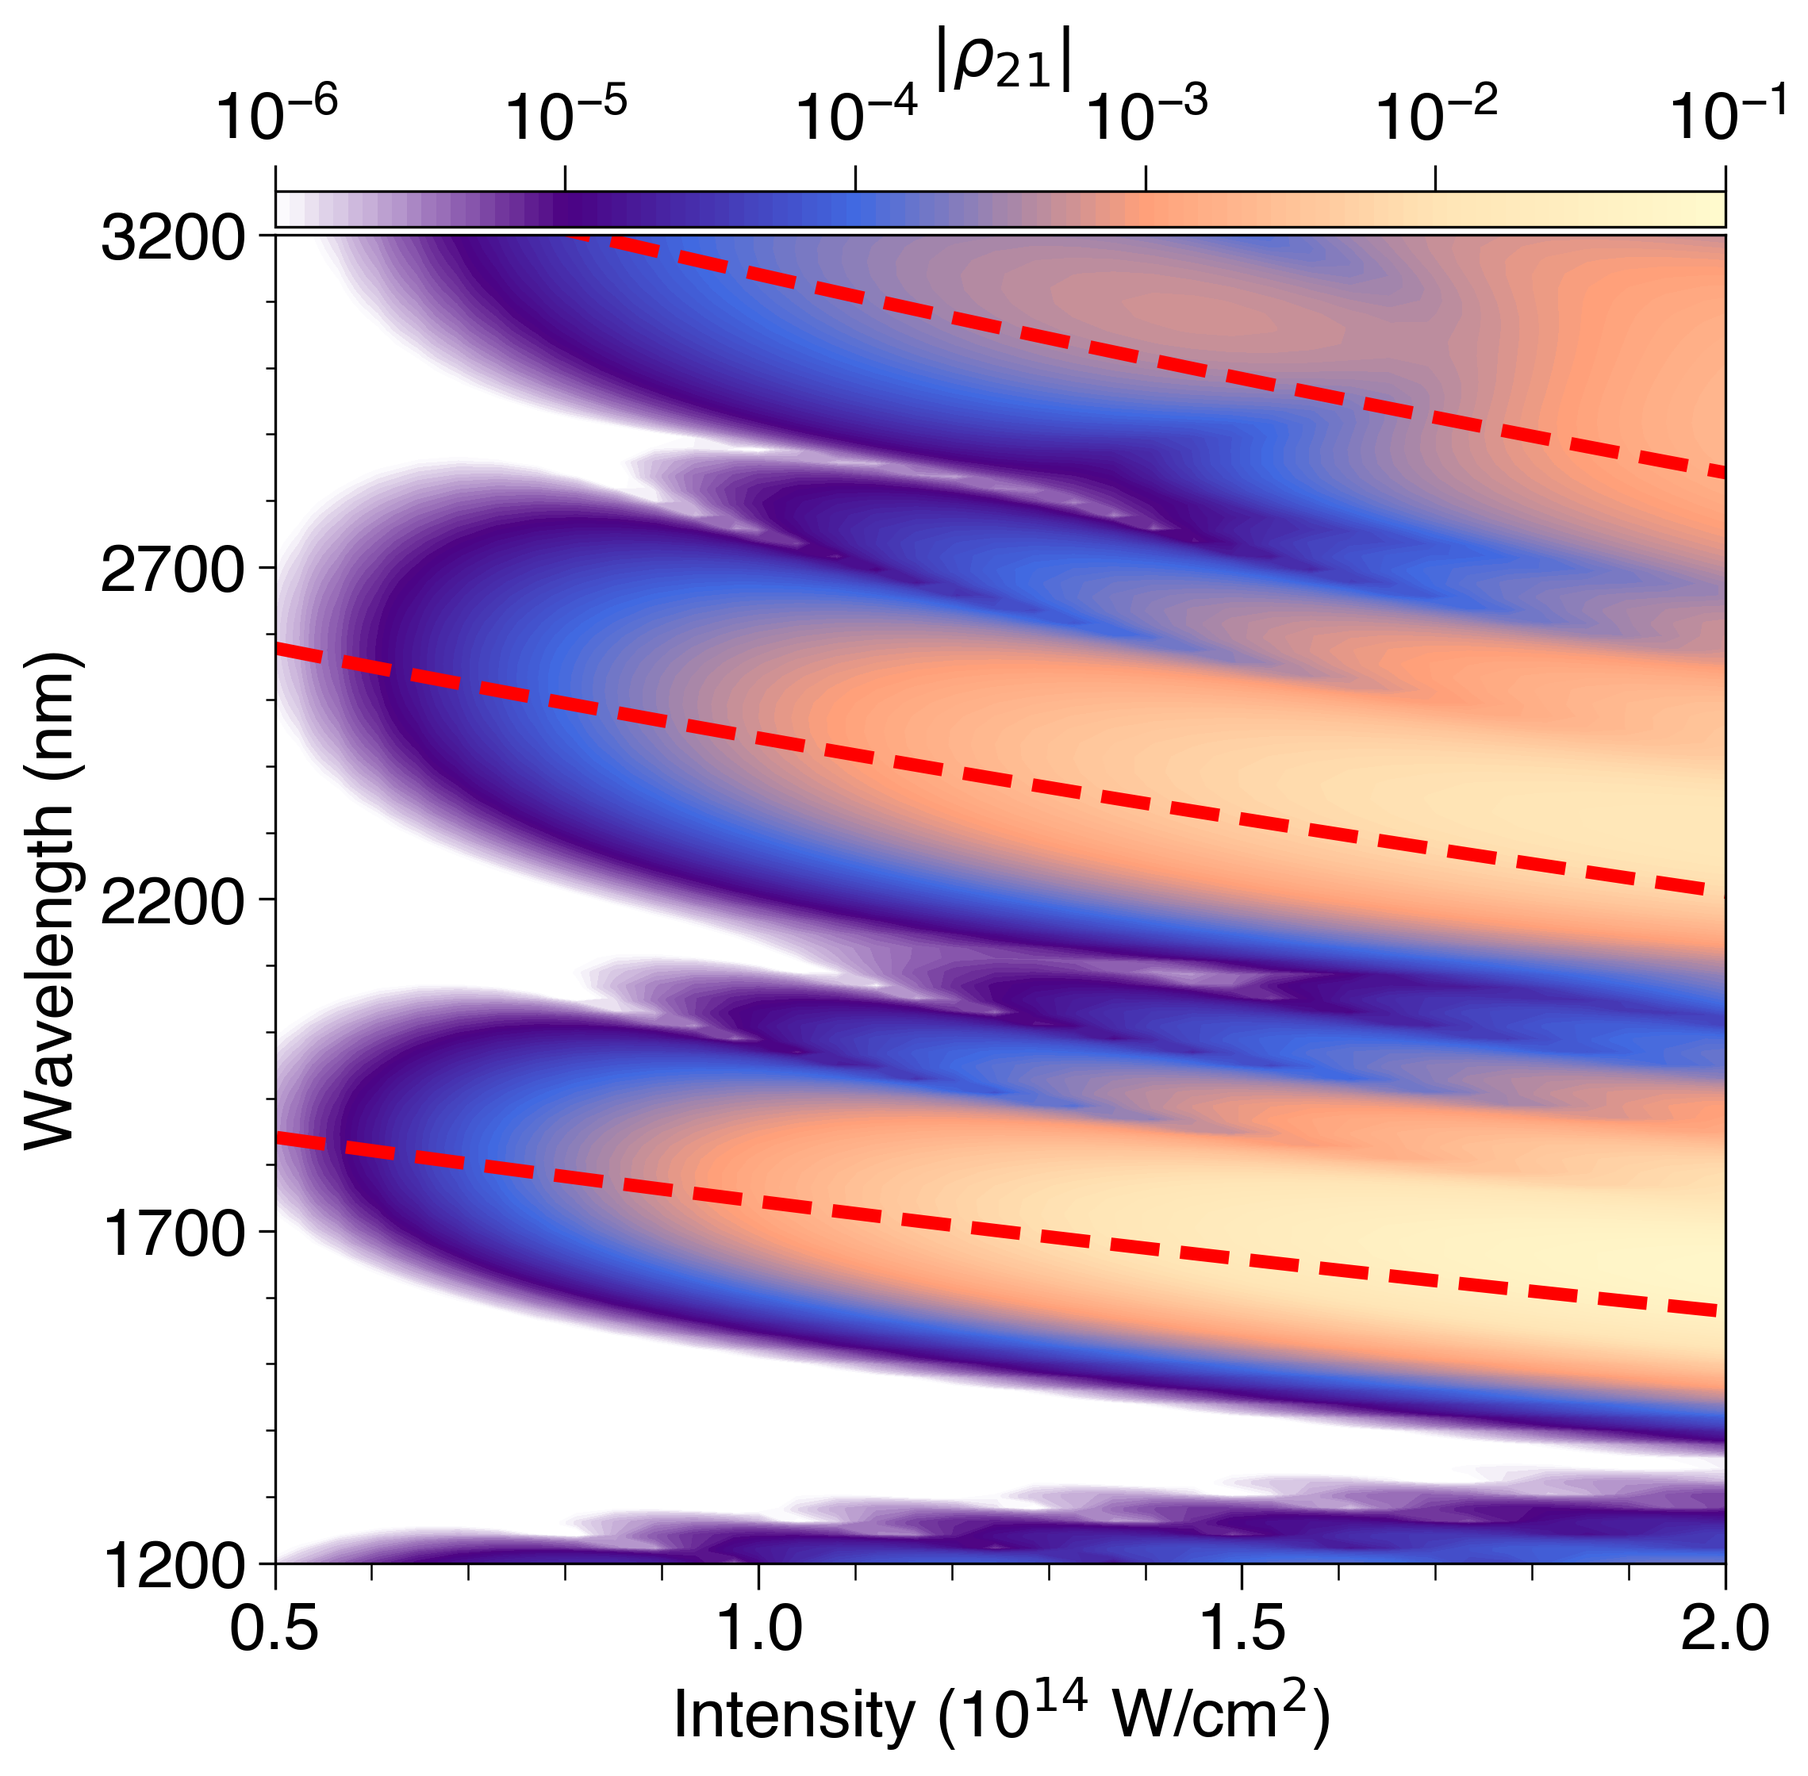
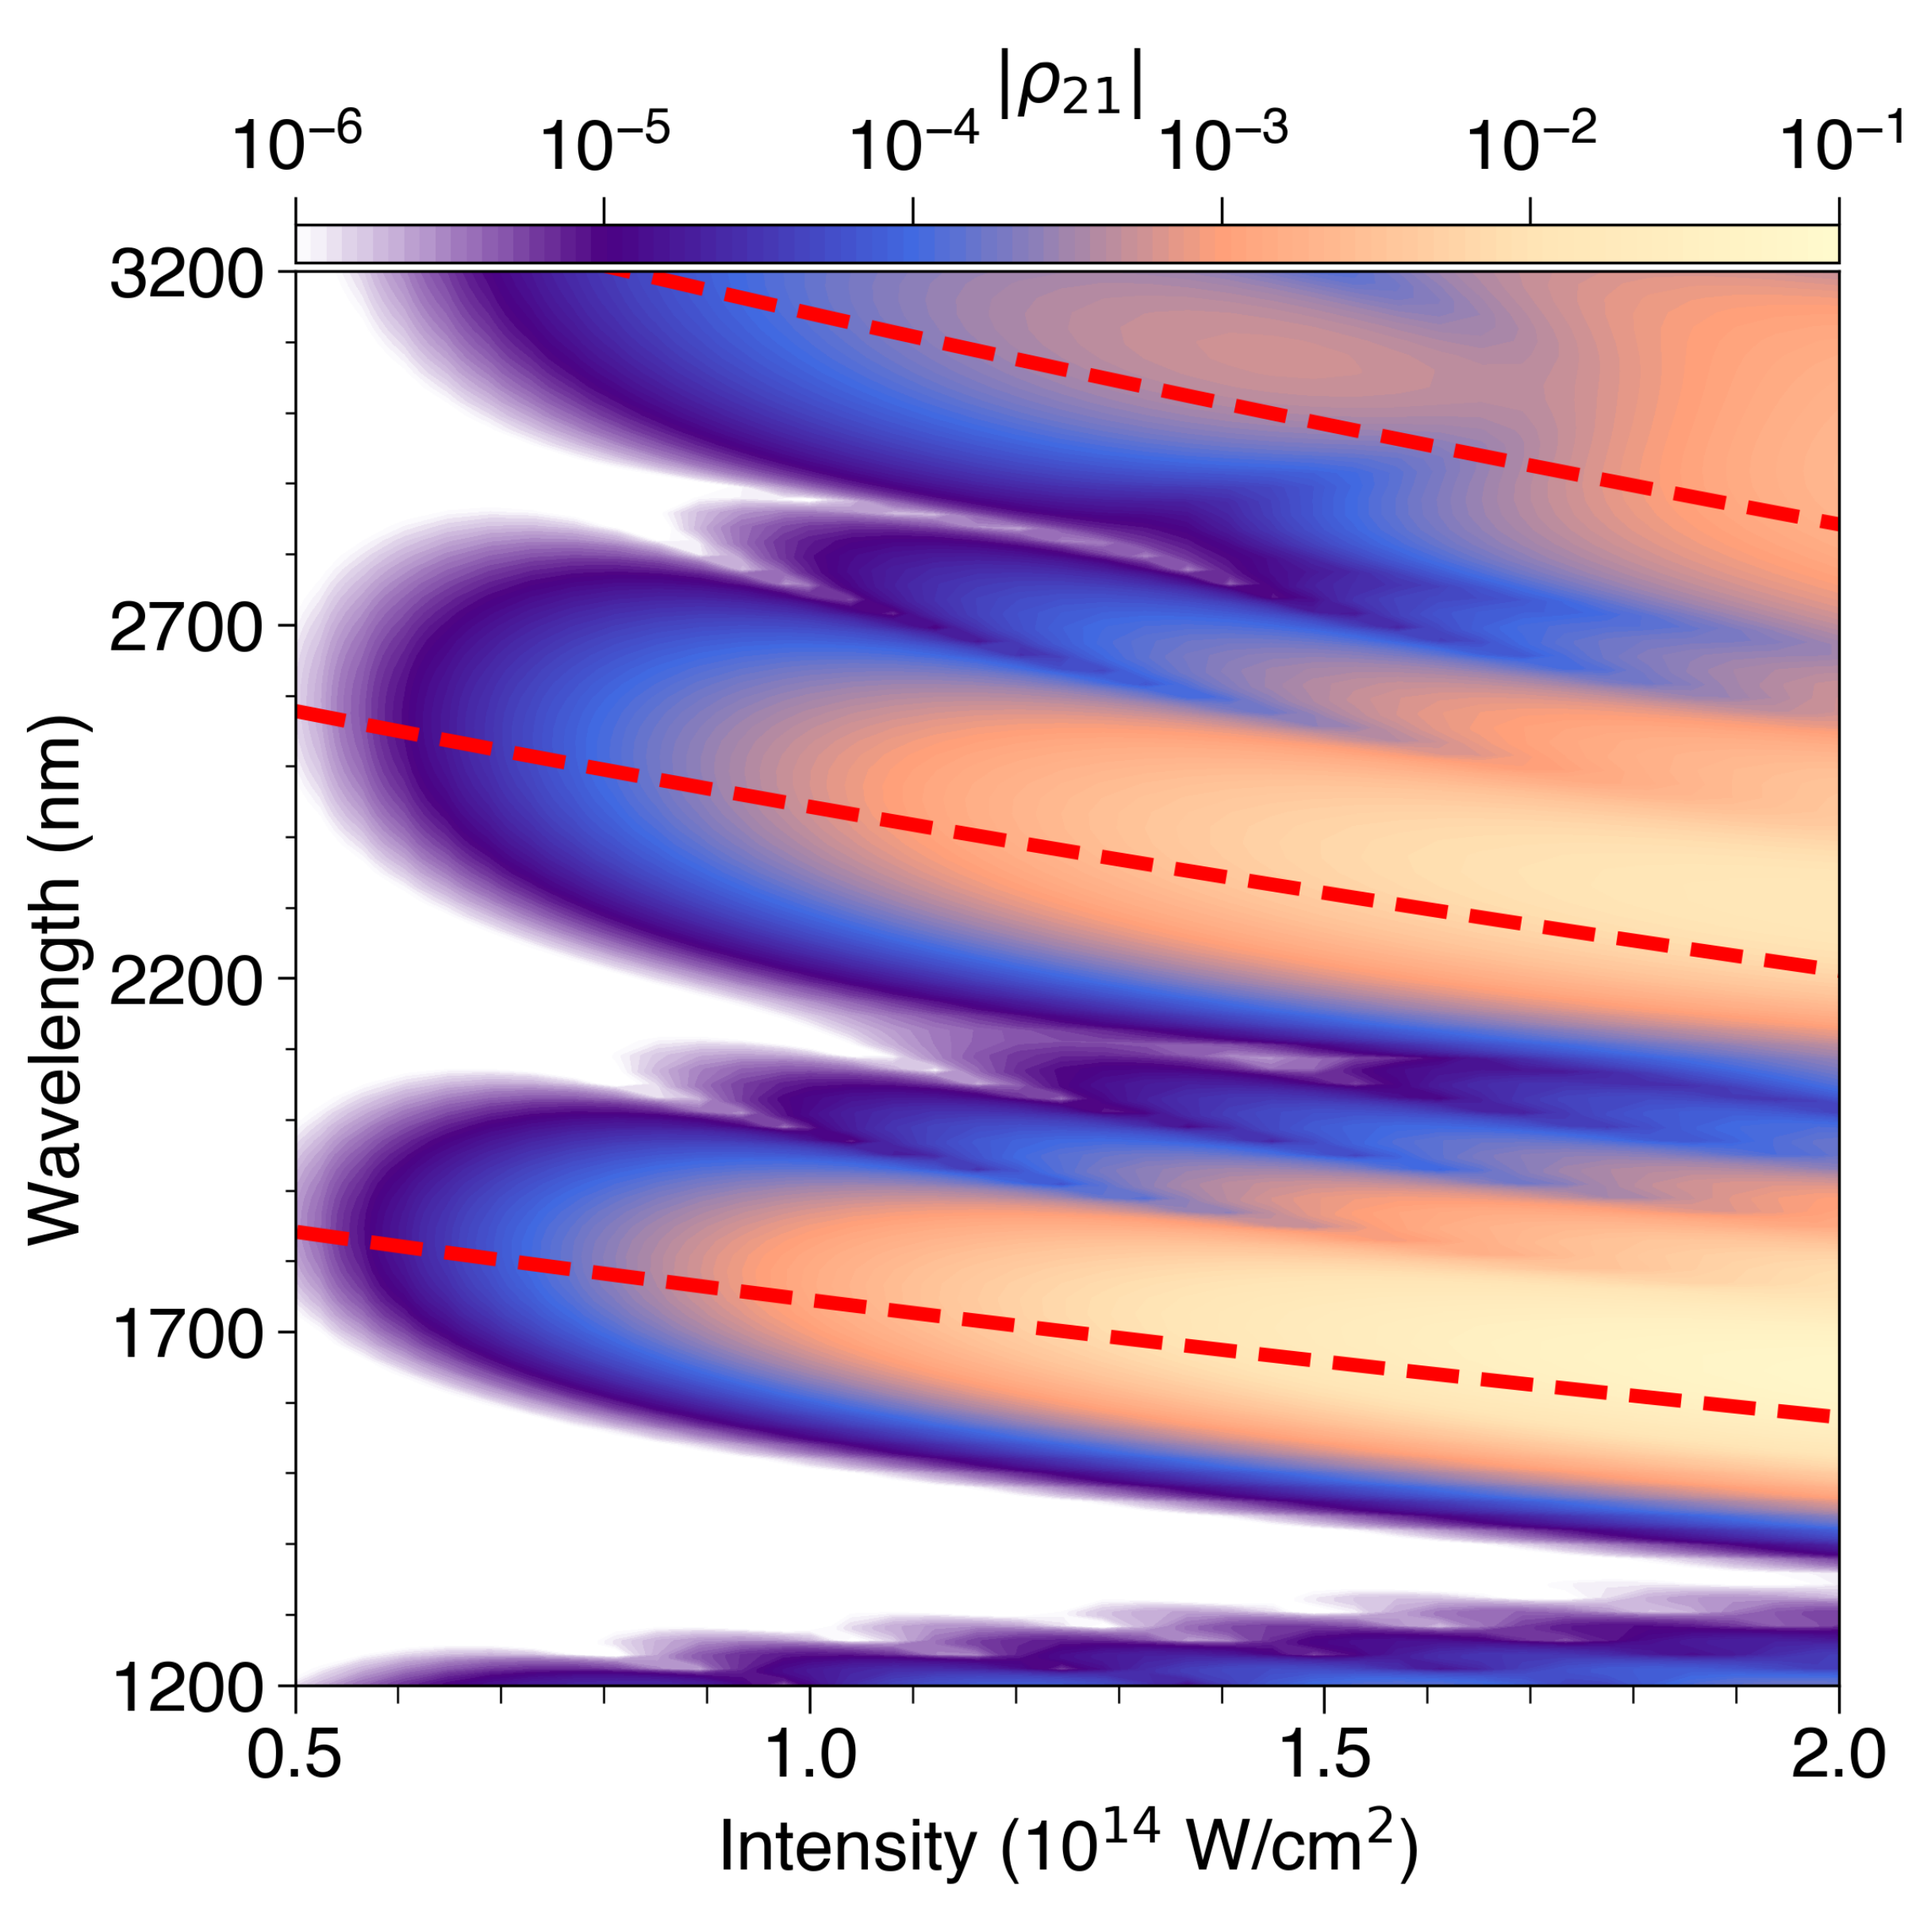
Updated the figures to test white background.

diff --git a/_pages/research.md b/_pages/research.md
@@ -12,11 +12,11 @@ gallery:
   - image_path: /assets/images/after_tunneling.svg
     alt: "After tunneling ionization"
 gallery_buildup:
-  - image_path: /assets/images/two-level.svg
+  - image_path: /assets/images/two-level.png
     alt: "Effective two-level system of the nitrogen molecular ion"
   - image_path: /assets/images/buildup-phase.png
     alt: "Subcycle buildup of the electronic coherence at 1341 nm and 1644 nm"
-  - image_path: /assets/images/coh-amp.svg
+  - image_path: /assets/images/coh-amp.png
     alt: "Coherence amplitude as a function of laser intensity and wavelength"
 ---
 
